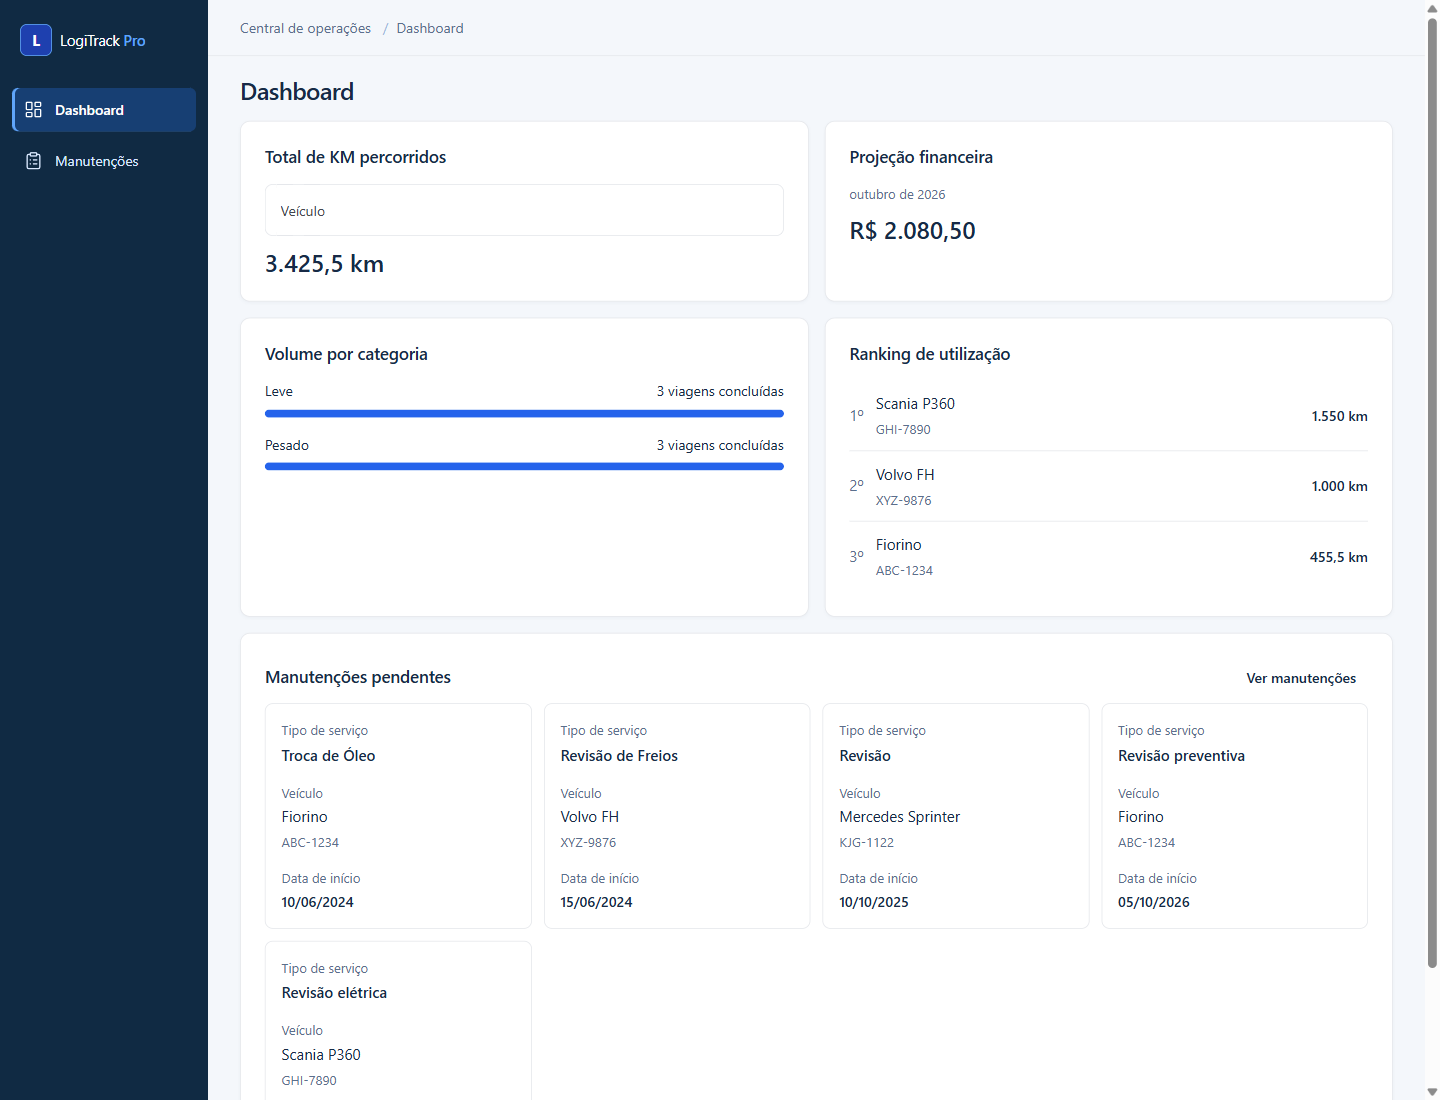
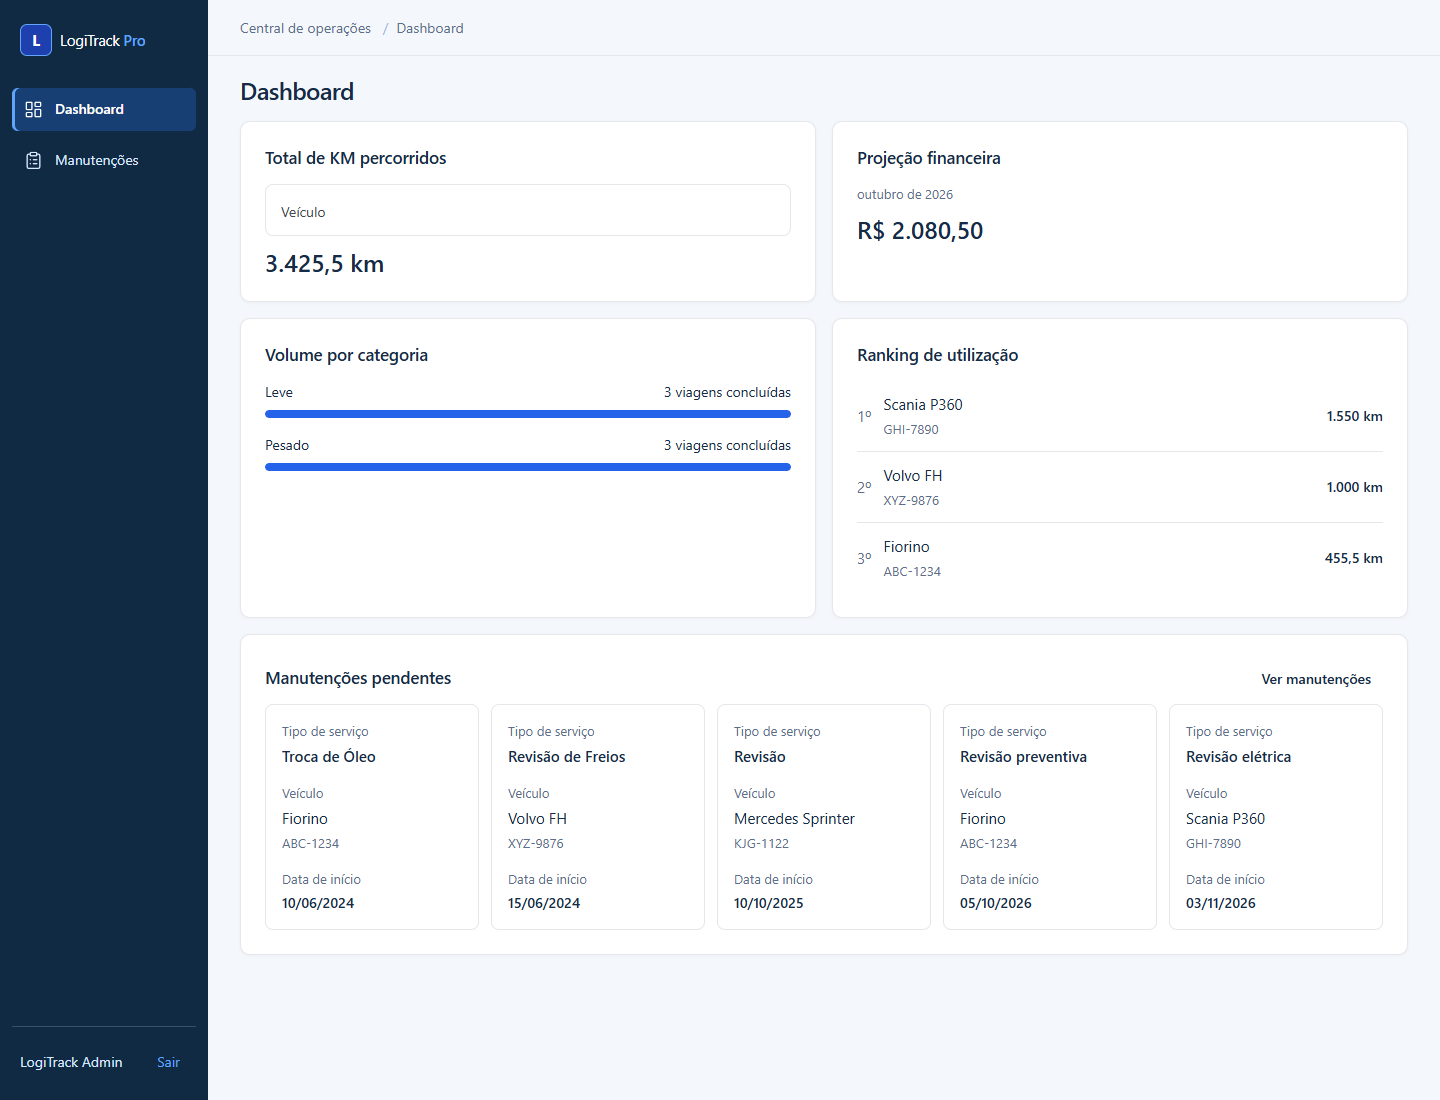
fix(dashboard): balance pending maintenance cards and update screenshot

diff --git a/frontend/src/app/features/dashboard/pages/dashboard-page.scss b/frontend/src/app/features/dashboard/pages/dashboard-page.scss
@@ -14,6 +14,7 @@
 }
 .upcoming {
   grid-column: 1 / -1;
+  container-type: inline-size;
 }
 p {
   margin-bottom: 0;
@@ -127,11 +128,12 @@ li + li {
   margin-top: var(--space-1);
 }
 .maintenance-cards {
-  display: grid;
-  grid-template-columns: repeat(auto-fit, minmax(260px, 1fr));
+  display: flex;
+  flex-wrap: wrap;
   gap: var(--space-3);
 }
 .maintenance-card {
+  flex: 1 1 calc((100% - 2 * var(--space-3)) / 3);
   display: block;
   min-width: 0;
   padding: var(--space-4);
@@ -195,6 +197,16 @@ li + li {
   white-space: nowrap;
   border: 0;
 }
+@container (min-width: 1000px) {
+  .maintenance-card {
+    flex-basis: calc((100% - 4 * var(--space-3)) / 5);
+  }
+}
+@container (max-width: 620px) {
+  .maintenance-card {
+    flex-basis: calc((100% - var(--space-3)) / 2);
+  }
+}
 @media (max-width: 650px) {
   .dashboard-grid {
     grid-template-columns: minmax(0, 1fr);
@@ -211,8 +223,8 @@ li + li {
   .panel-header h2 {
     margin-bottom: 0;
   }
-  .maintenance-cards {
-    grid-template-columns: minmax(0, 1fr);
+  .maintenance-card {
+    flex-basis: 100%;
   }
   li {
     grid-template-columns: auto minmax(0, 1fr);
